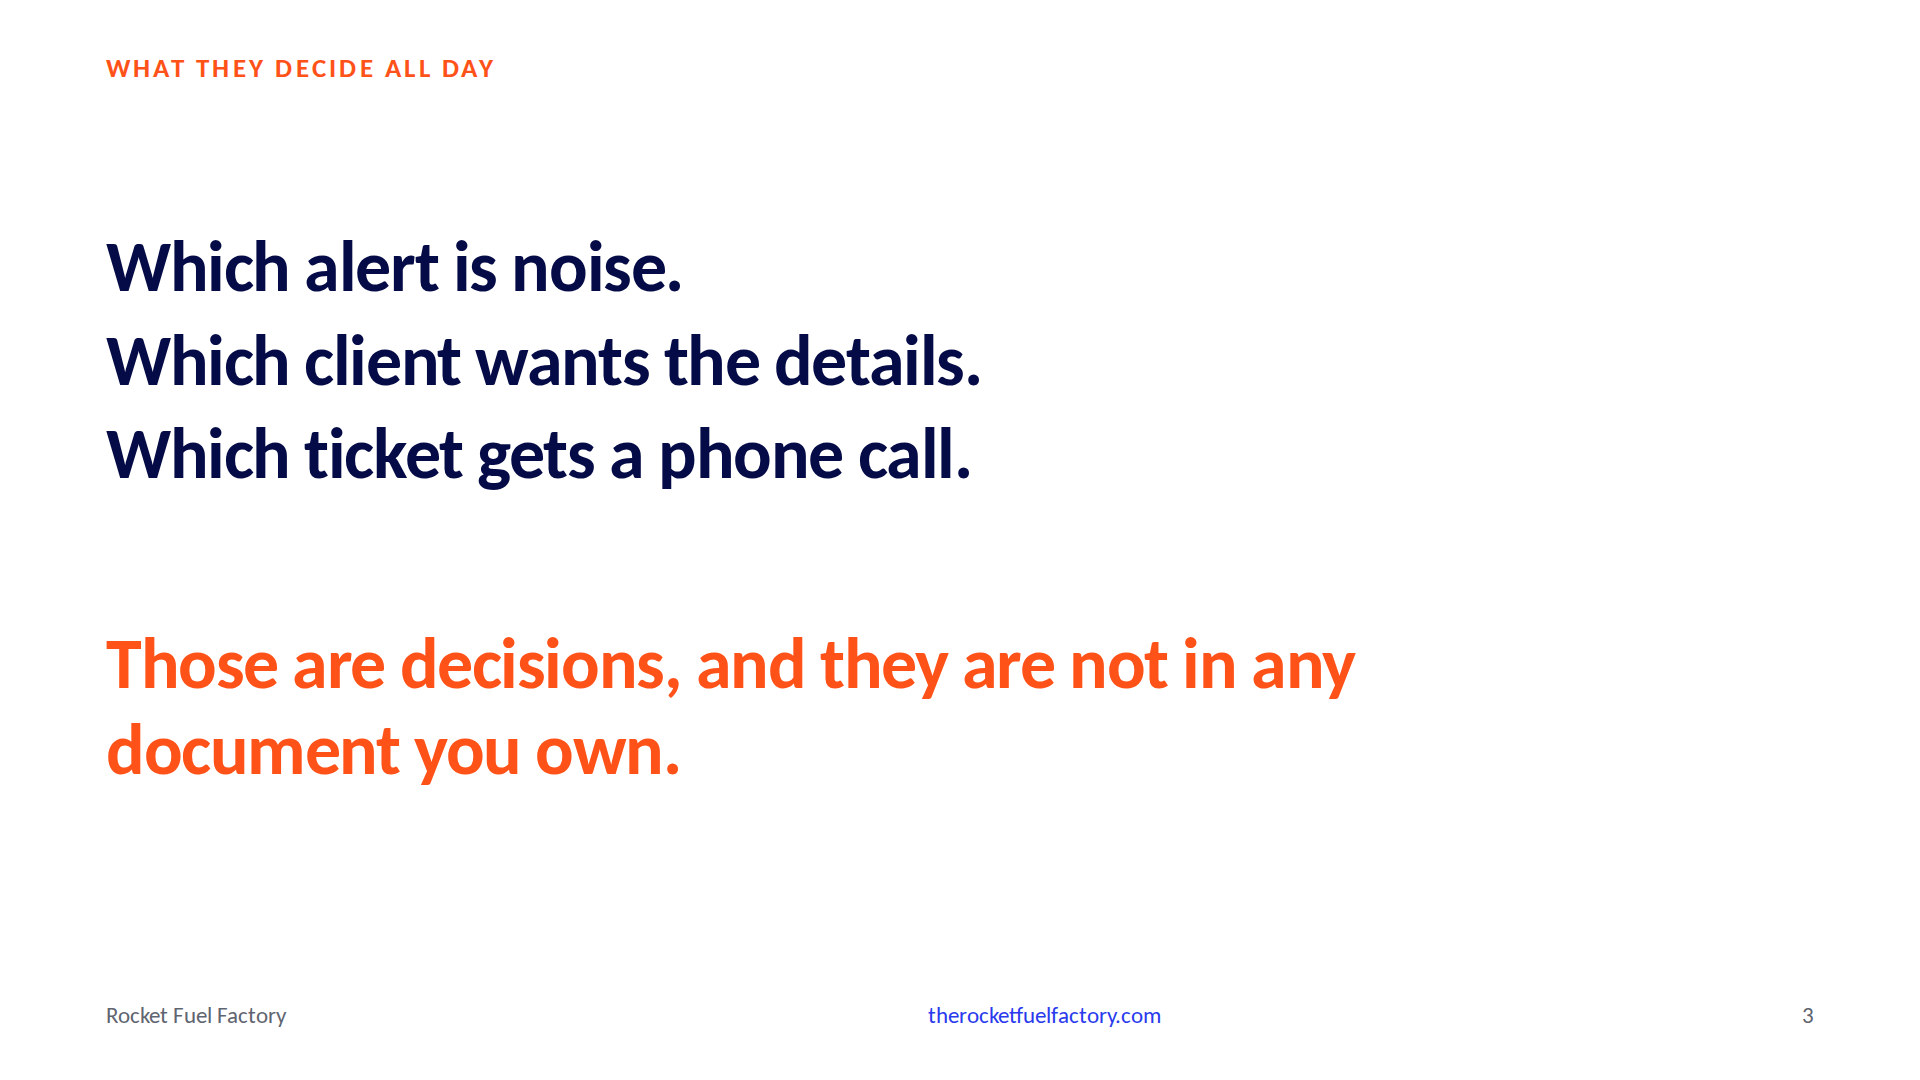
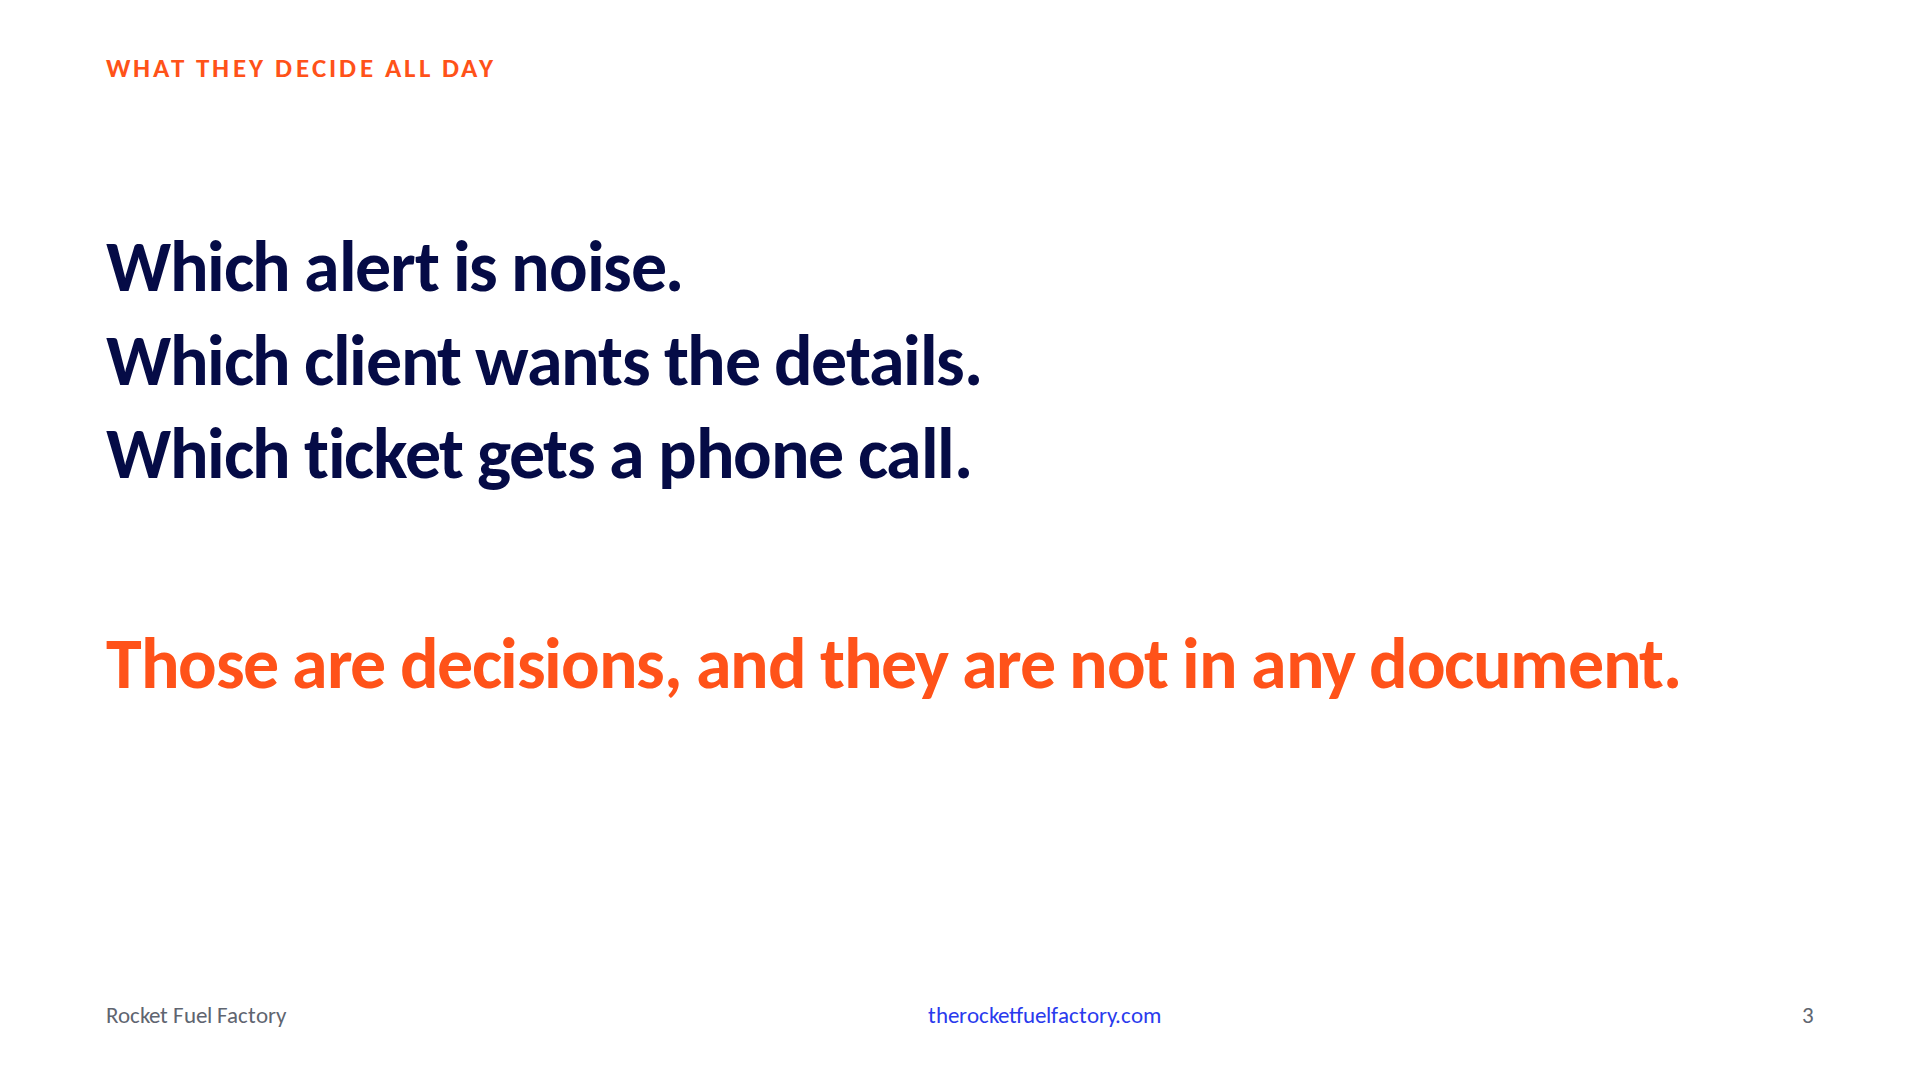
Slide 3: drop 'you own'

Changed region(s): [[0.0625, 0.6722, 0.3438, 0.7333], [0.6875, 0.5806, 0.875, 0.6417]]

diff --git a/src/data/notes.js b/src/data/notes.js
@@ -6,7 +6,7 @@
 export const notes = {
   cover: 'Target 0:00. No verbatim line. Land straight after Dawn and Dave. Do not summarize their talk, one sentence of thanks and go.',
   automatons: 'Target 0:20. SLOW. You have a name in your head right now. You are not afraid of them taking a week off because they are lazy, or because the team is thin. You are afraid because when they are out, things go wrong that nobody can explain, and the client is the one who notices. Keep that name. This talk is about that person, and about why the work they do has never made it out of their head.',
-  'the-typing-is-hiding-a-decision': 'Target 1:00. SLOW. Here is a piece of what that person carries. Take the alert that fires every night at two. They know it clears itself. They also know the one that looks identical and does not. That is a decision, and it is not in any document you own. Nobody has asked them for it, including you. That is why the vacation request scares you, and it is not their fault. Here is how it got that way.',
+  'the-typing-is-hiding-a-decision': 'Target 1:00. SLOW. Here is a piece of what that person carries. Take the alert that fires every night at two. They know it clears itself. They also know the one that looks identical and does not. That is a decision, and it is not in any document. Nobody has asked them for it, including you. That is why the vacation request scares you, and it is not their fault. Here is how it got that way.',
   'abdicate-not-delegate': 'Target 2:40. The cause. Pick up the thread: you handed over the doing and the deciding together. Line to land: delegating is handing over the work and keeping the definition of done. Abdicating is handing over both. We became the automatons because we abdicated: the deciding stayed in one head, so the doing stayed with one pair of hands. Then the mechanism: you have gotten away with it because your best tech decides what you meant. The vague brief works on them, so you never find out it was vague. Then you give the same brief to the new hire and decide the new hire is not working out. Closing line off the slide: your best tech has been filling in the blanks for years, the new hire could not, neither can this.',
   'the-demo-never-had-a-client': 'Target 4:10. Rant slide, about a minute. No vendor names. Every launch video this year: someone says one sentence, something impressive appears, they say awesome, cut. Any answer would have been fine, because the only person checking was the person who asked. That is why one sentence was enough, and that is where you learned to ask that way. Do not mention the email or the ticket; the next slide opens it cold.',
   'demo-weak': 'Target 4:50. The mirror. This is what everyone in the room actually does: one line, paste the ticket. Read the line. Point at the ticket: it has everything a tech needs. Full waiting room, FGT-60F, Phase 1, DigiCert, and the aside that we flagged this cert in Q2 and nobody approved the renewal. Your best tech reads that and knows what to leave out. This reader has no idea who Dana is. Click.',

diff --git a/src/components/slides/003-TheTypingIsHidingADecision.jsx b/src/components/slides/003-TheTypingIsHidingADecision.jsx
@@ -17,9 +17,9 @@ export default function TheTypingIsHidingADecision({ slideNumber }) {
       </p>
       <p
         className="absolute font-bold text-rff-orange"
-        style={{ left: 106, top: 620, width: 1400, fontSize: 72, lineHeight: 1.2, letterSpacing: '-0.02em' }}
+        style={{ left: 106, top: 620, width: 1708, fontSize: 72, lineHeight: 1.2, letterSpacing: '-0.02em' }}
       >
-        Those are decisions, and they are not in any document you own.
+        Those are decisions, and they are not in any document.
       </p>
       <Footer slideNumber={slideNumber} />
     </div>

diff --git a/docs/OUTLINE.md b/docs/OUTLINE.md
@@ -36,7 +36,7 @@ Closing line: If you can't write the rule, you can't hire your way out of it eit
 
 1. Cover
 2. Pull statement, blue, a question with no footer: Whose vacation request do you dread approving? SLOW. Ask it, let the room name someone, click. The answer is the talk. Opens on delivery (what breaks when that person is out) without claiming anything about the room or repeating the Sizers. Tim's automation-fear line is spoken at slide 11, where Aharon's law answers it. A bridge slide about a stalled automation attempt was tried on 13 Sep and cut: it generalized, brought automation in at minute one, and duplicated the three-decisions slide.
-3. Which alert is noise. Which client wants the details. Which ticket gets a phone call. Orange: those are decisions, and they are not in any document you own. Eyebrow: what they decide all day. SLOW. Slide 2 is the person, slide 3 is a piece of what they carry. Note tells one case (the 2am alert that clears itself and the identical one that does not) rather than reading the list. No Adobe here; that line belongs to Mike at slide 12. Bridge to 4: here is how it got that way.
+3. Which alert is noise. Which client wants the details. Which ticket gets a phone call. Orange: those are decisions, and they are not in any document. Eyebrow: what they decide all day. SLOW. Slide 2 is the person, slide 3 is a piece of what they carry. Note tells one case (the 2am alert that clears itself and the identical one that does not) rather than reading the list. No Adobe here; that line belongs to Mike at slide 12. Bridge to 4: here is how it got that way.
 
 4. We abdicate, we think we delegate (comparison). Delegate: hand over the work, keep the definition of done, say what good looks like. Abdicate: hand over both, grade against the version in your head, get away with it until you don't. The mechanism: the best tech fills in what you meant, so the vague brief works and you never learn it was vague. The new hire gets the same brief and no context, and you decide the new hire is not working out. Closing: your best tech has been filling in the blanks for years. The new hire couldn't. Neither can this.
 5. The demo never had a client (three bullets, blue). Every AI keynote is one sentence, then magic. It works because the presenter has no stake in what comes back. Back at work, every detail is the job, and somebody else checks them. Bullets are Tim's own outline sentences so the photo matches the rant. Tim rants over it, about a minute. No vendor names, nothing about the email; slide 7 opens cold. Astra launch frames and transcript were tried and dropped (docs/astra/); a picture of the demo does not show the absence of a client.
